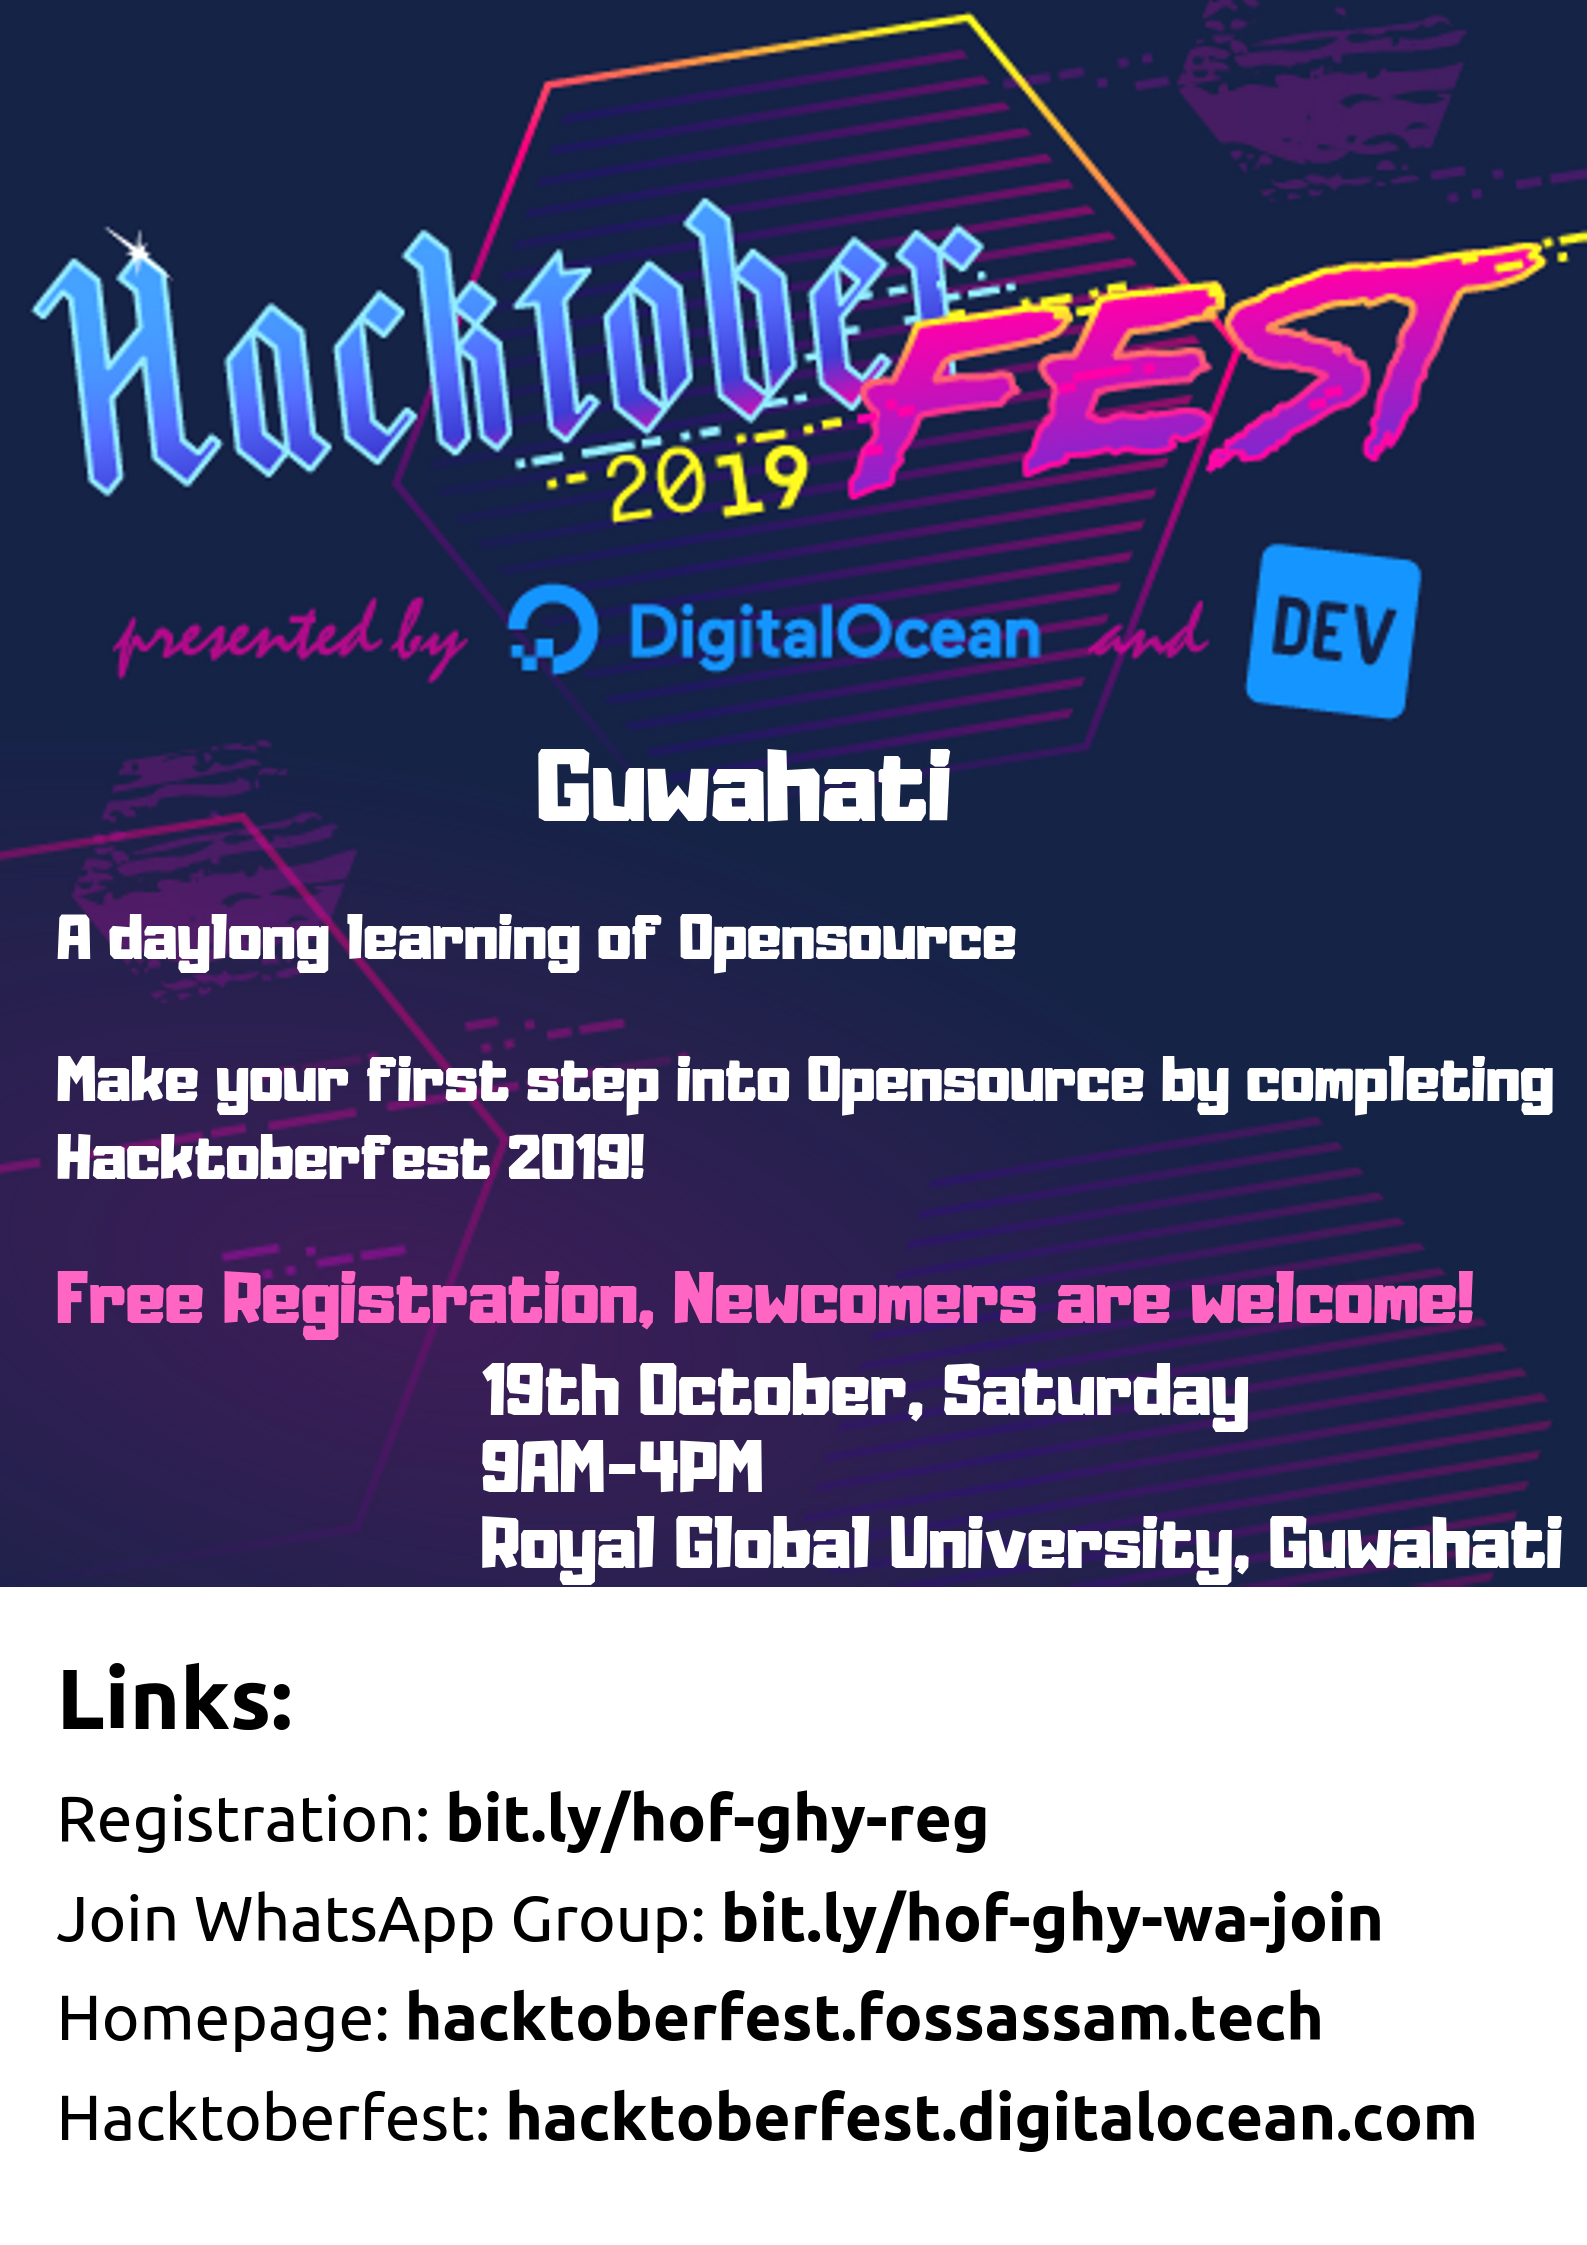
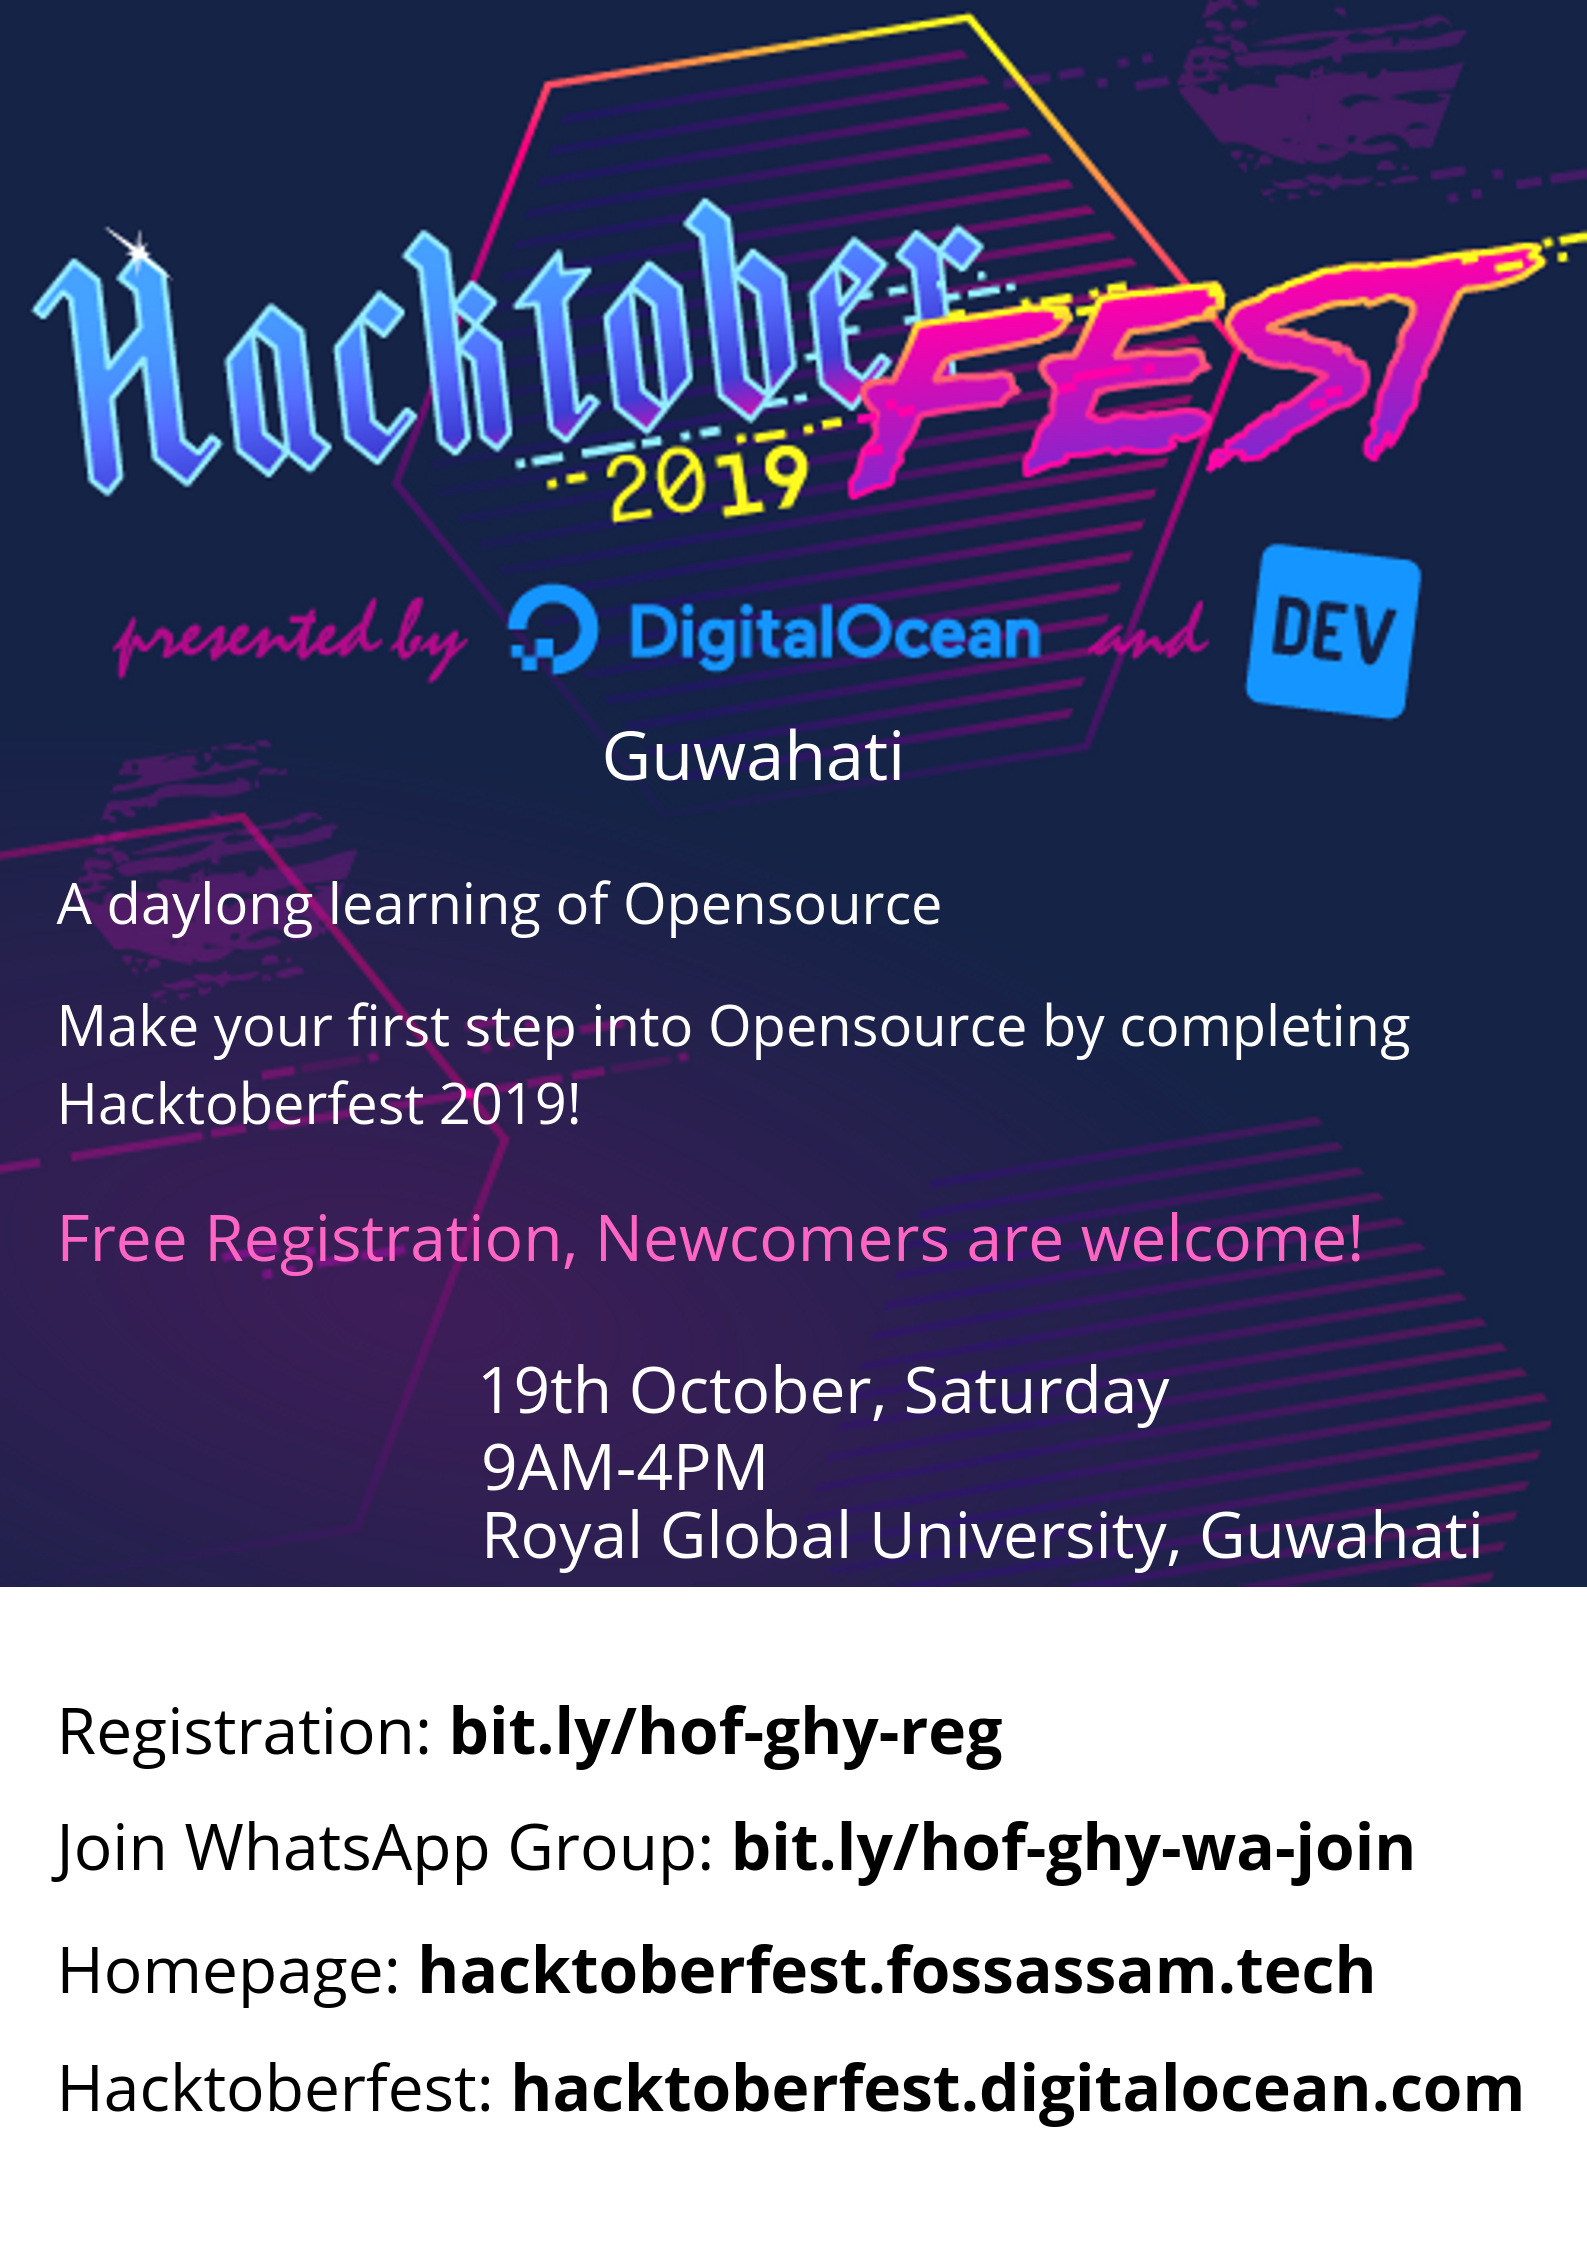
wip

Changed region(s): [[0.0309, 0.3118, 0.988, 0.7171], [0.0309, 0.7483, 0.9572, 0.9666]]

diff --git a/public/post/hof-ghy/index.html b/public/post/hof-ghy/index.html
@@ -1,0 +1,177 @@
+<!DOCTYPE html>
+<html lang="en-us">
+<head prefix="og: http://ogp.me/ns#">
+  <meta charset="utf-8" />
+  <meta name="viewport" content="width=device-width, initial-scale=1.0, maximum-scale=1" />
+  <meta property="og:title" content=" Hacktoberfest Ghy 2019 &middot;  FOSSAssam" />
+  
+  <meta property="og:site_name" content="FOSSAssam" />
+  <meta property="og:url" content="/post/hof-ghy/" />
+  
+  
+  <meta property="og:type" content="article" />
+  
+  <meta property="og:article:published_time" content="2019-10-16T10:44:38&#43;05:30" />
+  
+  
+
+  <title>
+     Hacktoberfest Ghy 2019 &middot;  FOSSAssam
+  </title>
+
+  <link rel="stylesheet" href="/css/bootstrap.min.css" />
+  <link rel="stylesheet" href="/css/main.css" />
+  <link rel="stylesheet" href="/css/font-awesome.min.css" />
+  <link rel="stylesheet" href="/css/github.css" />
+  <link rel="stylesheet" href="//fonts.googleapis.com/css?family=Source+Sans+Pro:200,300,400" type="text/css">
+  <link rel="shortcut icon" href="/images/favicon.ico" />
+  <link rel="apple-touch-icon" href="/images/apple-touch-icon.png" />
+  
+</head>
+<body>
+    <header class="global-header"  style="background-image:url( /images/bg.jpg )">
+    <section class="header-text">
+      <h1><a href="/">FOSSAssam</a></h1>
+      
+      <div class="sns-links hidden-print">
+  
+  
+  
+  
+  
+  
+  
+  
+  
+  
+  
+  
+</div>
+
+      
+      <a href="/" class="btn-header btn-back hidden-xs">
+        <i class="fa fa-angle-left" aria-hidden="true"></i>
+        &nbsp;Home
+      </a>
+      
+      
+    </section>
+  </header>
+  <main class="container">
+
+
+<article>
+  <header>
+    <h1 class="text-primary">Hacktoberfest Ghy 2019</h1>
+    <div class="post-meta clearfix">
+    
+      <div class="post-date pull-left">
+        Posted on
+        <time datetime="2019-10-16T10:44:38&#43;05:30">
+          Oct 16, 2019
+        </time>
+      </div>
+    
+      <div class="pull-right">
+        
+      </div>
+    </div>
+  </header>
+  <section>
+    
+
+<hr />
+
+<p>Registration link: <a href="http://bit.ly/hof-ghy-reg">bit.ly/hof-ghy-reg</a></p>
+
+<hr />
+
+<p>Hello everyone! 🎊 Welcome to Hacktoberfest Guwahati. This page is dedicated for describing the agenda of the offline Hacktoberfest Guwahati meetup on 19th October (Saturday).</p>
+
+<p>Here&rsquo;s a short intro about Hacktoberfest for who are not familiar. If you already know what this is all about, directly skip to the <strong>Agenda</strong> section:</p>
+
+<h1 id="intro">Intro</h1>
+
+<p>Students and professionals of all levels are welcome! This is a month long celebration of OpenSource in the form of a challenge called Hacktoberfest.</p>
+
+<p>You&rsquo;re supposed to make 4 PRs to a GitHub repository anytime between Oct 1 and Oct 31 to complete the challenge.</p>
+
+<p>Don&rsquo;t know what Opensource, PR, Repository, GitHub, mean? perfect! That means you&rsquo;re going to lean a lot! The way this will work for you is simple:</p>
+
+<p>For more info see this: <a href="https://hacktoberfest.fossassam.tech">Hacktoberfest Guwahati Homepage</a></p>
+
+<h1 id="agenda">Agenda</h1>
+
+<p><strong>9:30AM - 9:45AM</strong> : Event inauguration</p>
+
+<p><strong>9:45AM - 10:30AM</strong> : Introduction to Open Source talk</p>
+
+<p><strong>10:30AM - 12:30PM</strong> : Hands on with Git and GitHub</p>
+
+<p><strong>Lunch ( 1 hour break )</strong></p>
+
+<p><strong>1:30PM - 3:30PM</strong> : Hands on Hacktoberfest Hacking! - Students find repositories to contribute to, volunteers help them contribute.</p>
+
+<p><strong>3:30PM - 4:00PM</strong> : Closing notes and Opportunities in Open Source</p>
+
+<p>Do share about this event as much as you can! 😄</p>
+
+<p><img src="/hof-ghy-poster.png" alt="" /></p>
+
+  </section>
+  <footer>
+    
+    
+    
+    <section class="author-info row">
+      <div class="author-avatar col-md-2">
+        
+      </div>
+      <div class="author-meta col-md-6">
+        
+        
+      </div>
+      
+    </section>
+    <ul class="pager">
+      
+      <li class="previous disabled"><a href="#"><span aria-hidden="true">&larr;</span> Older</a></li>
+      
+      
+      <li class="next"><a href="/post/tf-aa-rgu/">Newer <span aria-hidden="true">&rarr;</span></a></li>
+      
+    </ul>
+  </footer>
+</article>
+
+  </main>
+  <footer class="container global-footer">
+    <div class="copyright-note pull-left">
+      
+    </div>
+    <div class="sns-links hidden-print">
+  
+  
+  
+  
+  
+  
+  
+  
+  
+  
+  
+  
+</div>
+
+  </footer>
+
+  <script src="/js/highlight.pack.js"></script>
+  <script>
+    hljs.initHighlightingOnLoad();
+  </script>
+  
+  
+</body>
+</html>
+
